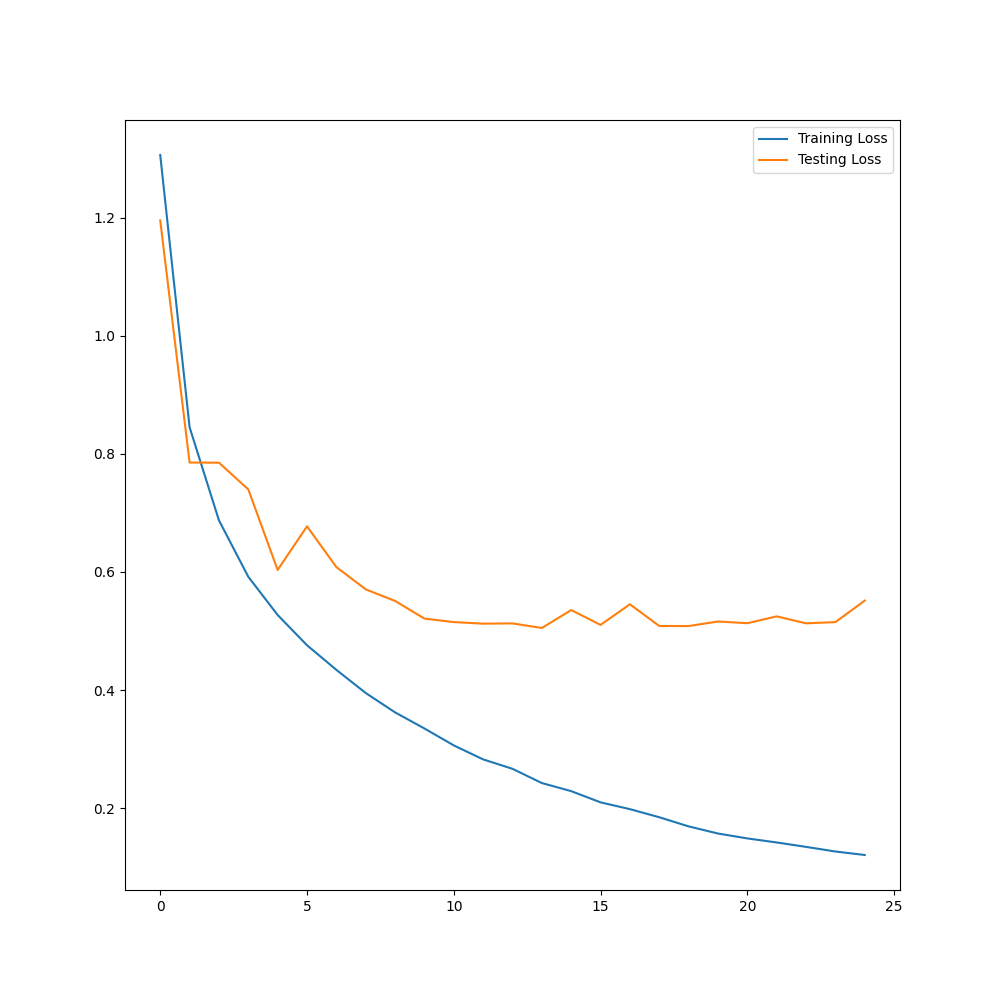
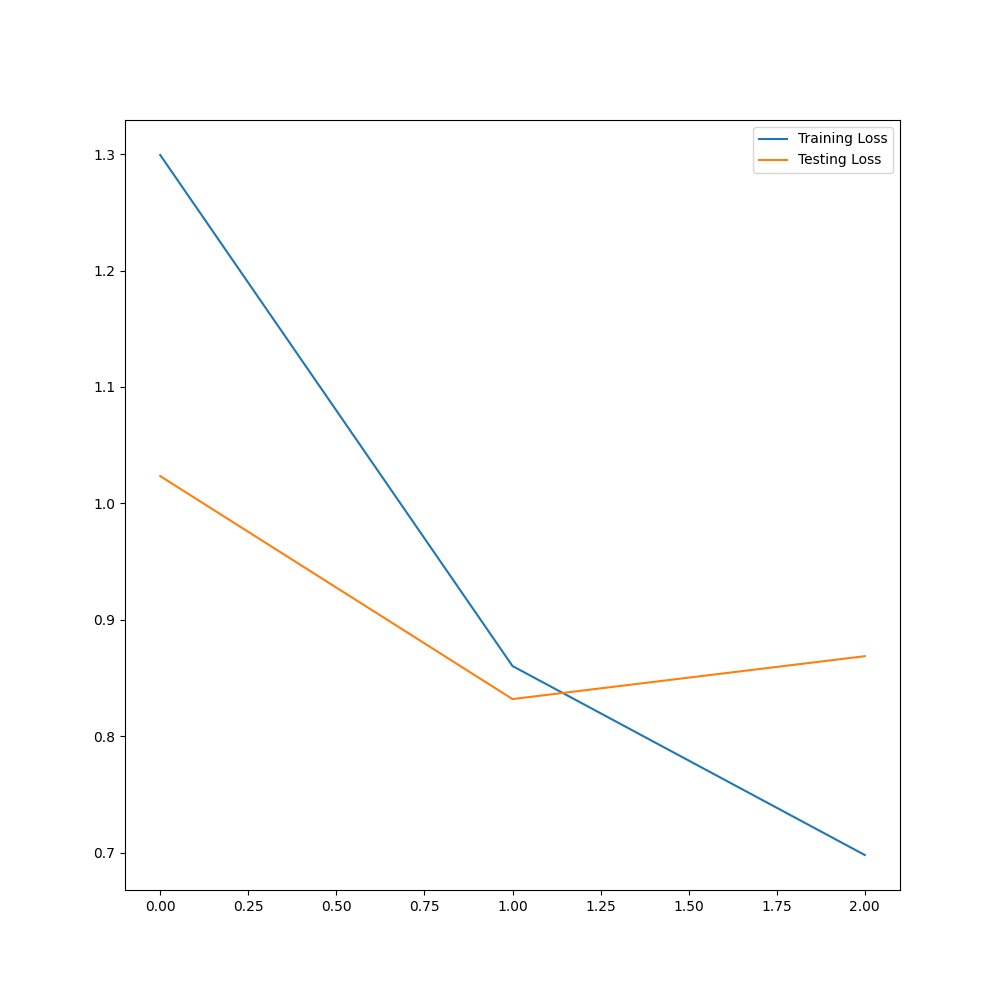
some_arrangments

diff --git a/app/cnn_architecture/utils/post_process.py b/app/cnn_architecture/utils/post_process.py
@@ -1,23 +1,16 @@
 from dataclasses import dataclass
-import cv2
 import torch
 import torch.nn as nn
-import torchvision.transforms as transforms
-import torchvision.datasets as datasets
-from torch.autograd import Variable
-from torch.utils.data import DataLoader , Dataset
 
 import matplotlib.pyplot as plt
-from PIL import Image
-import numpy as np
 from typing import Any
 
 
-#TODO logger gelecek
 #TODO metodlara acıklama eklenecek
 #TODO input outputlara type verilecek
 @dataclass
 class PostProcess:
+    save_model_path:str
     number_of_epoch : int
     learning_rate : float
     momentum : float
@@ -62,7 +55,7 @@ class PostProcess:
             return
         if test_loss[-1] > test_loss[-2]:
             return
-        torch.save(model, "model_best.pt")
+        torch.save(model, self.save_model_path)
         self.logger.info("Model saved due to decrease test loss from the previous epoch.")
 
     def __call__(self,model,train_loader,test_loader,train_dataset,test_dataset):
@@ -118,10 +111,8 @@ class PostProcess:
             test_loss.append(self.testing_loss/self.iterations)
             test_accuracy.append((100*self.correct/len(test_dataset)))
 
-
-            self.draw_loss_graph(train_loss,test_loss)
-
             self.logger.info('Epoch{}/{}, Training Loss: {:.3f}, Training Accuracy : {:.3f}, Testing Loss: {:.3f}, Testing Accuracy : {:.3f}'.format(epoch+1 , self.number_of_epoch, train_loss[-1], train_accuracy[-1], test_loss[-1] , test_accuracy[-1]))
             
             self.save_model(model,test_loss,epoch)
+        self.draw_loss_graph(train_loss,test_loss)
 

diff --git a/app.py b/app.py
@@ -7,18 +7,6 @@ from app.cnn_architecture.cnn import CNNConfig
 from app.cnn_architecture.utils.preprocess_data import PreProcess
 from app.cnn_architecture.utils.post_process import PostProcess
 
-import cv2
-import torch
-import torch.nn as nn
-import torchvision.transforms as transforms
-import torchvision.datasets as datasets
-from torch.autograd import Variable
-from torch.utils.data import DataLoader , Dataset
-
-import matplotlib.pyplot as plt
-from PIL import Image
-import numpy as np
-
 
 def main(args, configs):
 
@@ -26,8 +14,6 @@ def main(args, configs):
     logger.debug("############ CIFAR-10 CNN PYTORCH CONFIGURATIONS ############")
     logger.debug(configs)
 
-    #TODO Model Saver yazılması
-    #TODO Graph creater
     preprocess = PreProcess(**configs["preprocess"], logger=logger)
     train_loader , test_loader , train_dataset , test_dataset = preprocess()
     config = CNNConfig(**configs["cnn-architecture"])
@@ -38,10 +24,6 @@ def main(args, configs):
 
     post_process(model,train_loader,test_loader,train_dataset,test_dataset)
     
-    
-  
-
-
 if __name__ == "__main__":
     import argparse
     parser = argparse.ArgumentParser()

diff --git a/app/cnn_architecture/utils/preprocess_data.py b/app/cnn_architecture/utils/preprocess_data.py
@@ -1,21 +1,12 @@
 from dataclasses import dataclass
-import cv2
 import torch
-import torch.nn as nn
 import torchvision.transforms as transforms
 import torchvision.datasets as datasets
-from torch.autograd import Variable
-from torch.utils.data import DataLoader , Dataset
 
-import matplotlib.pyplot as plt
-from PIL import Image
-import numpy as np
 from typing import Any
 
-#TODO logger gelecek
 #TODO metodlara acıklama eklenecek
 #TODO input outputlara type verilecek
-#TODO kullanılmayan kütüphaneler silinecek
 @dataclass
 class PreProcess:
     dataset_path : str

diff --git a/inference.py b/inference.py
@@ -83,7 +83,7 @@ class ModelInference():
 
 if __name__ == "__main__":
     dict = {
-        "model_path" : "/home/arif/workplace/cifar-cnn-pytorch/model_best.pt",
+        "model_path" : "/home/ak/workplace/cifar-cnn-pytorch/model_best.pt",
         "dataset_path" : "./app/data",
         "mean_rgb" : [0.49139968,0.48215827,0.44653124],
         "stddev_rgb" : [0.24703233, 0.24348505, 0.26158768]

diff --git a/app/cnn_architecture/cnn_2.py b/app/cnn_architecture/cnn_2.py
@@ -1,14 +1,4 @@
-import cv2
-import torch
 import torch.nn as nn
-import torchvision.transforms as transforms
-import torchvision.datasets as datasets
-from torch.autograd import Variable
-from torch.utils.data import DataLoader , Dataset
-
-import matplotlib.pyplot as plt
-from PIL import Image
-import numpy as np
 
 #TODO Config eklenecek
 class CNN2(nn.Module):

diff --git a/app/cnn_architecture/cnn.py b/app/cnn_architecture/cnn.py
@@ -1,14 +1,7 @@
-import cv2
 import torch
 import torch.nn as nn
 import torchvision.transforms as transforms
 import torchvision.datasets as datasets
-from torch.autograd import Variable
-from torch.utils.data import DataLoader , Dataset
-
-import matplotlib.pyplot as plt
-from PIL import Image
-import numpy as np
 
 from dataclasses import dataclass
 
